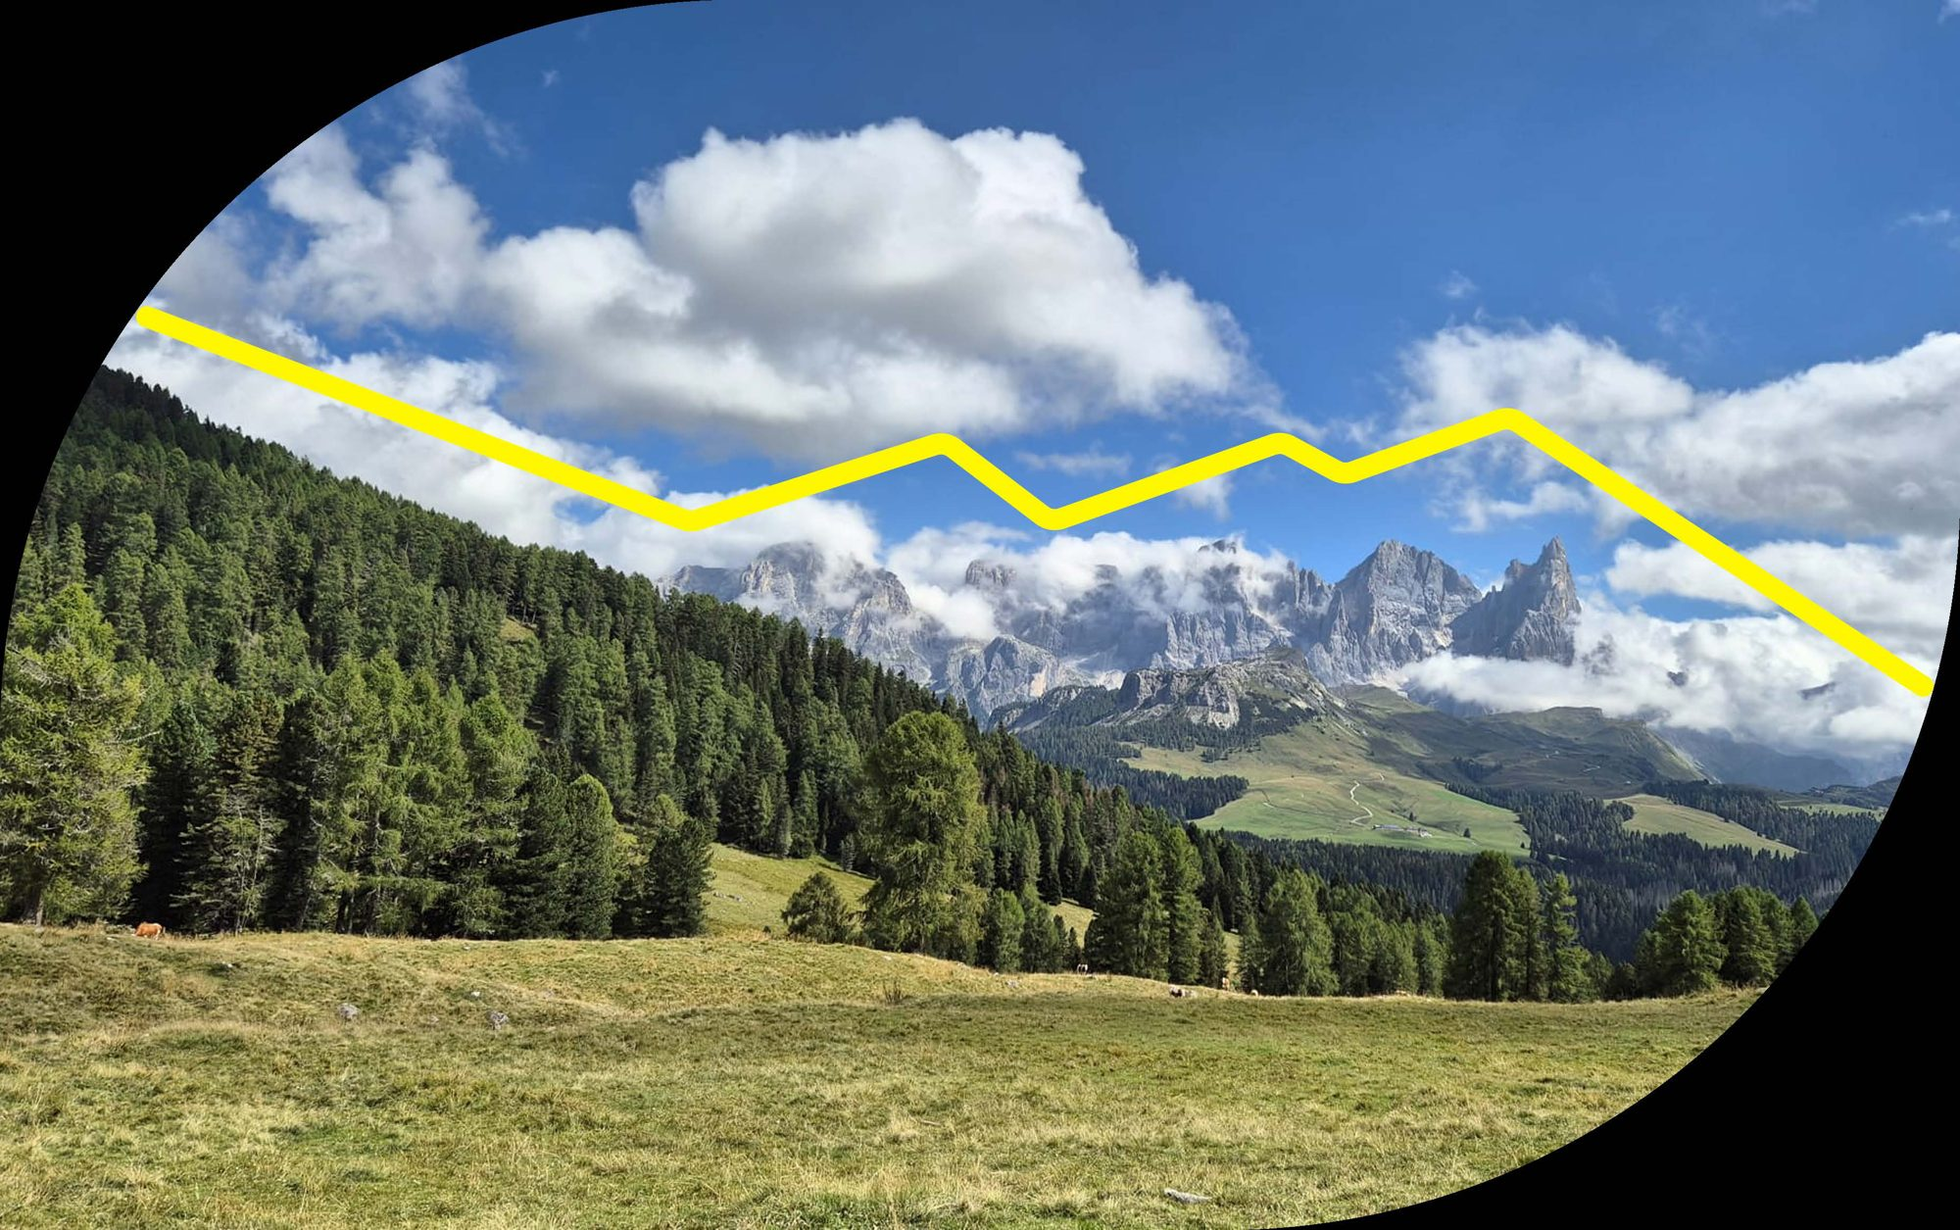
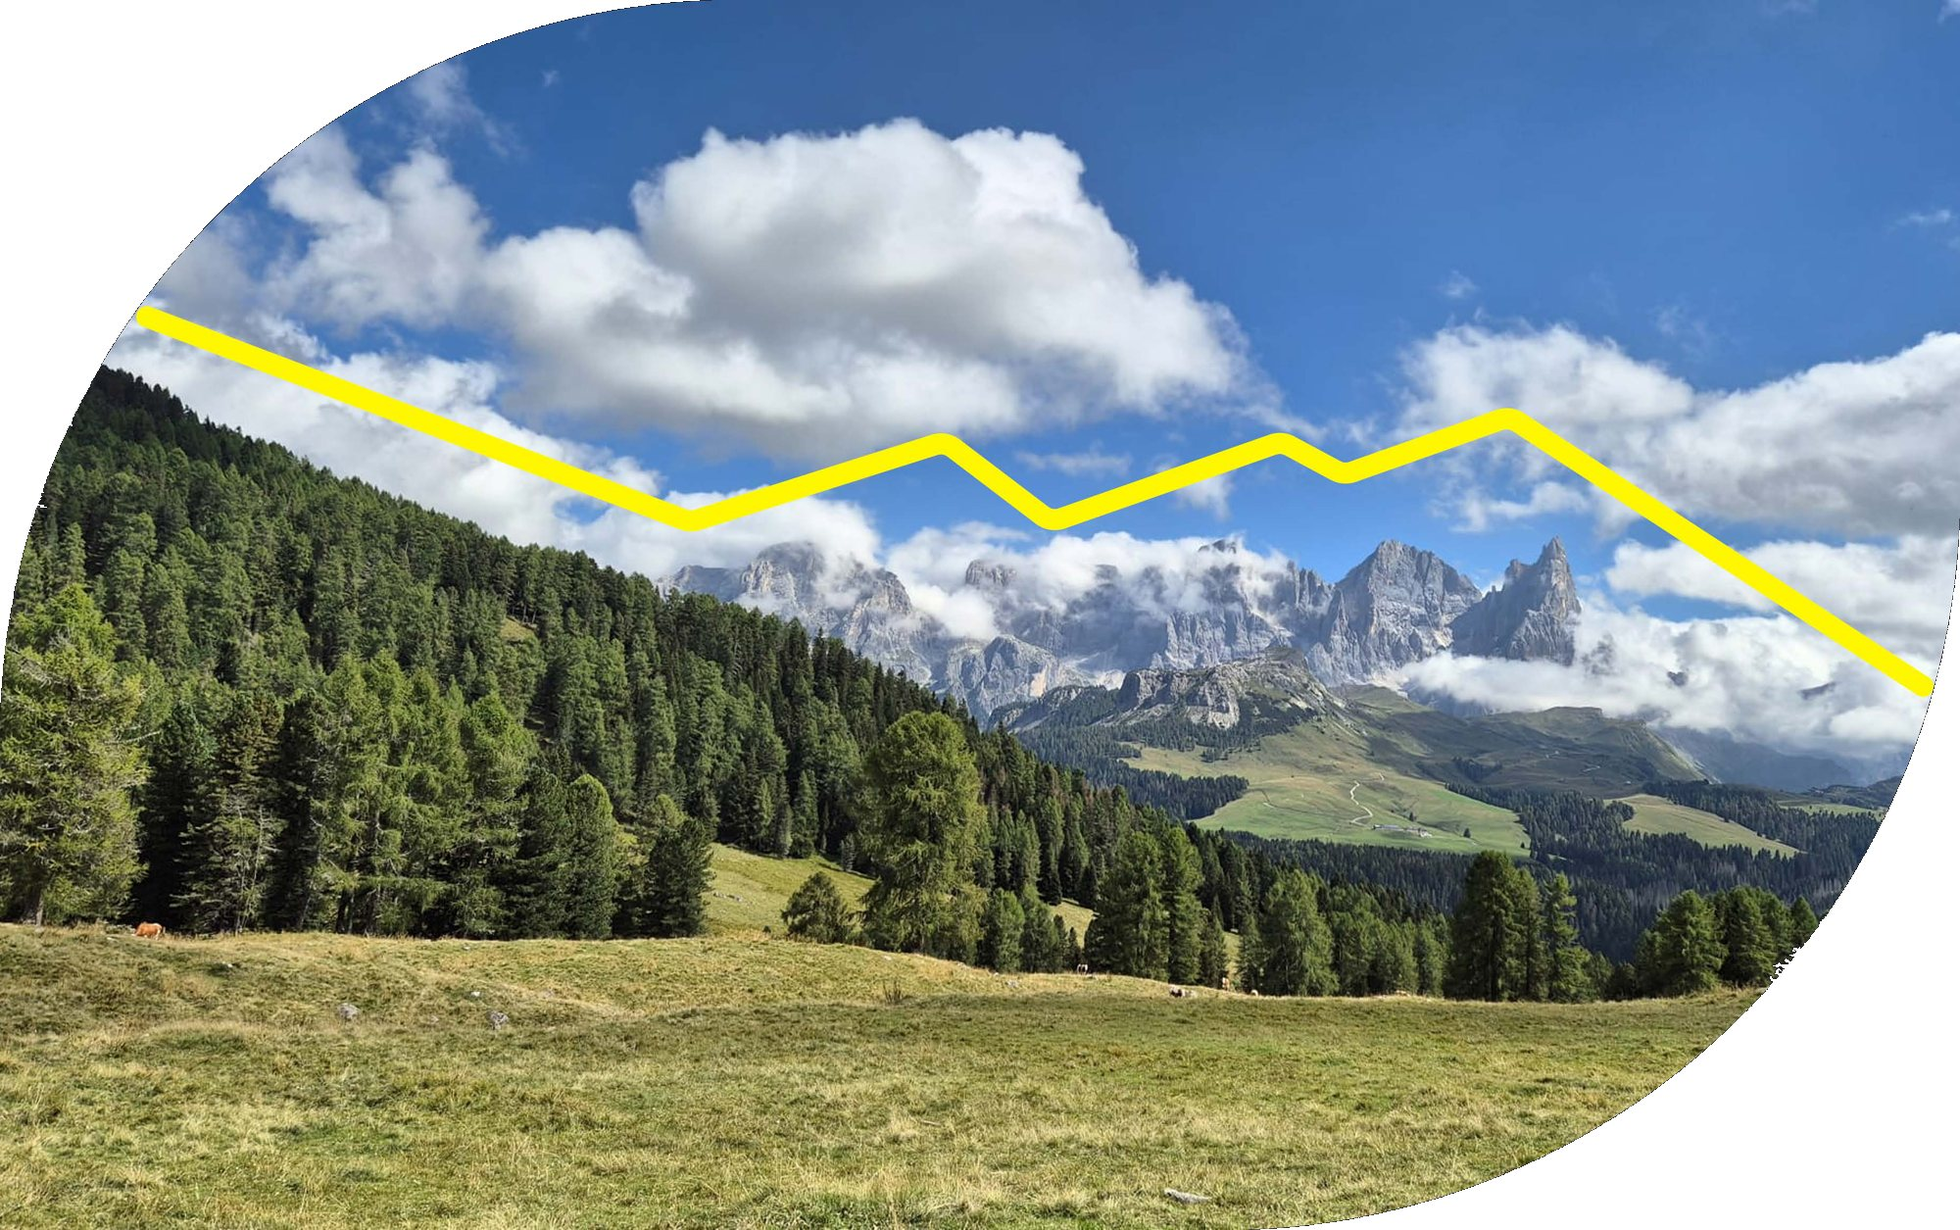
SS27: bílé rohy úvodky, bez technických stránek, vzorník BIVAK celý

Changed region(s): [[0.651, 0.4351, 1.0, 1.0], [0.0, 0.0, 0.341, 0.5283]]

diff --git a/ss27/trimm_katalog_SS27.html b/ss27/trimm_katalog_SS27.html
@@ -12,8 +12,8 @@ body{width:min(100%,104rem);margin:0 auto;background:var(--bg)}
 svg{width:1em;height:1em;fill:none;stroke:currentColor;stroke-width:1.8;stroke-linecap:round;stroke-linejoin:round}
 .ic{display:inline-flex;font-size:16px;color:var(--accent);margin-right:5px;vertical-align:middle}
 /* HERO */
-.hero{position:relative;background:#0b1b2b url("hero-ss27.jpg") center/cover no-repeat;min-height:420px;display:flex;align-items:flex-end;padding:60px;color:#fff;overflow:hidden}
-.hero::after{content:'';position:absolute;inset:0;background:linear-gradient(180deg,rgba(0,0,0,0) 30%,rgba(0,0,0,.65))}
+.hero{position:relative;background:#fff url("hero-ss27.jpg") center/cover no-repeat;min-height:420px;display:flex;align-items:flex-end;padding:60px;color:#fff;overflow:hidden}
+.hero::after{content:'';position:absolute;inset:0;background:linear-gradient(180deg,rgba(0,0,0,0) 35%,rgba(0,0,0,.6) 100%);mask:linear-gradient(90deg,#000 0,#000 55%,transparent 85%);-webkit-mask:linear-gradient(90deg,#000 0,#000 55%,transparent 85%)}
 .hero>div{position:relative;z-index:1}
 .hero .brand{font-size:14px;letter-spacing:.35em;font-weight:800;opacity:.9}
 .hero h1{font-size:clamp(34px,6vw,84px);font-weight:900;letter-spacing:.02em;line-height:1;margin-top:10px}
@@ -146,7 +146,7 @@ footer .sub{font-size:10px;letter-spacing:.25em;margin-top:16px}
  <span class="fcount" id="cnt"></span>
 </div>
 <main id="products">
-<section class="sec" id="sec-tents" data-sec="tents" style="--tc:#f39200"><div class="sec-head"><div class="sec-bar"></div><div><h2>TENTS COLLECTION</h2><div class="sec-cz">Stany</div></div><span class="sec-cnt">73 modelů</span></div><details class="info"><summary>Technické informace, materiály a technologie</summary><div class="info-pages"><img src="data/pdf_pages/p010.jpg" alt="Technické informace – strana 10" loading="lazy"><img src="data/pdf_pages/p011.jpg" alt="Technické informace – strana 11" loading="lazy"><img src="data/pdf_pages/p012.jpg" alt="Technické informace – strana 12" loading="lazy"></div></details><div class="serie" id="s-tents-extreme" data-serie="extreme" style="--sc:#e2001a"><div class="serie-head"><div class="serie-bar"></div><h3>EXTREME SERIE</h3><span class="serie-cnt">5</span></div><div class="grid"><article class="card" id="m-pack_dsl" data-sec="tents" data-serie="extreme" data-g="" data-s="pack dsl stan extreme orange/grey" style="--sc:#e2001a">
+<section class="sec" id="sec-tents" data-sec="tents" style="--tc:#f39200"><div class="sec-head"><div class="sec-bar"></div><div><h2>TENTS COLLECTION</h2><div class="sec-cz">Stany</div></div><span class="sec-cnt">73 modelů</span></div><div class="serie" id="s-tents-extreme" data-serie="extreme" style="--sc:#e2001a"><div class="serie-head"><div class="serie-bar"></div><h3>EXTREME SERIE</h3><span class="serie-cnt">5</span></div><div class="grid"><article class="card" id="m-pack_dsl" data-sec="tents" data-serie="extreme" data-g="" data-s="pack dsl stan extreme orange/grey" style="--sc:#e2001a">
 <div class="head"><div class="head-l"><h3>PACK DSL</h3></div><span class="dmoc"><span class="dmoc-l">DMOC</span>3 570 Kč</span></div>
 <div class="photo"><img class="p-front" src="foto/pack_dsl_orange_grey_front.jpg" alt="PACK DSL" loading="lazy"></div>
 <div class="meta"><span class="typ">stan</span></div>
@@ -730,7 +730,7 @@ footer .sub{font-size:10px;letter-spacing:.25em;margin-top:16px}
 
 <div class="body"><div class="mats"><div class="mat"><span class="mat-l">MATERIÁL</span><span class="mat-v">100 % PES + 100 % rubber</span></div><div class="mat"><span class="mat-l">ROZMĚR</span><span class="mat-v">10 m x 3 mm</span></div><p class="desc">TENTS POLES GUM - 10m z řady repair set od Trimm, je určena pro opravu či výměnu gumičky ve stanových prutech. Set obsahuje elastickou gumičku a drát na provlékání gumičky.</p></div><div class="feats"></div></div>
 <div class="colors"><div class="c-item" title="white dots"><div class="c-n">1</div><img class="c-art c-photo" src="foto/tents_poles_gum_white_dots_front.jpg" alt="TENTS POLES GUM white dots" loading="lazy"><div class="c-name">white dots</div></div></div>
-</article></div></div></section><section class="sec" id="sec-sleeping" data-sec="sleeping" style="--tc:#1e73be"><div class="sec-head"><div class="sec-bar"></div><div><h2>SLEEPING BAGS COLLECTION</h2><div class="sec-cz">Spací pytle</div></div><span class="sec-cnt">29 modelů</span></div><details class="info"><summary>Technické informace, materiály a technologie</summary><div class="info-pages"><img src="data/pdf_pages/p044.jpg" alt="Technické informace – strana 44" loading="lazy"><img src="data/pdf_pages/p045.jpg" alt="Technické informace – strana 45" loading="lazy"><img src="data/pdf_pages/p046.jpg" alt="Technické informace – strana 46" loading="lazy"></div></details><div class="serie" id="s-sleeping-extreme-down" data-serie="extreme-down" style="--sc:#e2001a"><div class="serie-head"><div class="serie-bar"></div><h3>EXTREME DOWN SERIE</h3><span class="serie-cnt">5</span></div><div class="grid"><article class="card" id="m-nord_750" data-sec="sleeping" data-serie="extreme-down" data-g="" data-s="nord 750 s.p. extreme down dark lagoon" style="--sc:#e2001a">
+</article></div></div></section><section class="sec" id="sec-sleeping" data-sec="sleeping" style="--tc:#1e73be"><div class="sec-head"><div class="sec-bar"></div><div><h2>SLEEPING BAGS COLLECTION</h2><div class="sec-cz">Spací pytle</div></div><span class="sec-cnt">29 modelů</span></div><div class="serie" id="s-sleeping-extreme-down" data-serie="extreme-down" style="--sc:#e2001a"><div class="serie-head"><div class="serie-bar"></div><h3>EXTREME DOWN SERIE</h3><span class="serie-cnt">5</span></div><div class="grid"><article class="card" id="m-nord_750" data-sec="sleeping" data-serie="extreme-down" data-g="" data-s="nord 750 s.p. extreme down dark lagoon" style="--sc:#e2001a">
 <div class="head"><div class="head-l"><h3>NORD 750</h3></div><span class="dmoc"><span class="dmoc-l">DMOC</span>8 980 Kč</span></div>
 <div class="photo"><img class="p-front" src="foto/nord_750_dark_lagoon_front.jpg" alt="NORD 750" loading="lazy"></div>
 <div class="meta"><span class="typ">spací pytel</span></div>
@@ -962,7 +962,7 @@ footer .sub{font-size:10px;letter-spacing:.25em;margin-top:16px}
 
 <div class="body"><div class="mats"><div class="mat"><span class="mat-l">MATERIÁL</span><span class="mat-v">100 % PES</span></div><div class="mat"><span class="mat-l">ROZMĚRY</span><span class="mat-v">24 x 45 cm</span></div><div class="mat"><span class="mat-l">ROZMĚR</span><span class="mat-v">24 x 45 cm</span></div><p class="desc">Kompresní obal značky Trimm COMPRESS BAG M umožňuje zmenšení rozměrů sbaleného spacího pytle. Objem spacáku je možné zmenšit až na 40 %, a to stáhnutím pomocí 4 kompresních pásků.</p></div><div class="feats"></div></div>
 <div class="colors"><div class="c-item" title="dark grey/red"><div class="c-n">1</div><img class="c-art c-photo" src="foto/compress_bag_m_dark_grey_red_front.jpg" alt="COMPRESS BAG M dark grey/red" loading="lazy"><div class="c-name">dark grey/red</div></div></div>
-</article></div></div></section><section class="sec" id="sec-mattress" data-sec="mattress" style="--tc:#3aa55d"><div class="sec-head"><div class="sec-bar"></div><div><h2>MATTRESS COLLECTION</h2><div class="sec-cz">Karimatky a matrace</div></div><span class="sec-cnt">17 modelů</span></div><details class="info"><summary>Technické informace, materiály a technologie</summary><div class="info-pages"><img src="data/pdf_pages/p060.jpg" alt="Technické informace – strana 60" loading="lazy"><img src="data/pdf_pages/p061.jpg" alt="Technické informace – strana 61" loading="lazy"></div></details><div class="serie" id="s-mattress-lite" data-serie="lite" style="--sc:#00a99d"><div class="serie-head"><div class="serie-bar"></div><h3>LITE SERIE</h3><span class="serie-cnt">6</span></div><div class="grid"><article class="card" id="m-wake_5_5" data-sec="mattress" data-serie="lite" data-g="" data-s="wake 5.5 karimatka lite blue green" style="--sc:#00a99d">
+</article></div></div></section><section class="sec" id="sec-mattress" data-sec="mattress" style="--tc:#3aa55d"><div class="sec-head"><div class="sec-bar"></div><div><h2>MATTRESS COLLECTION</h2><div class="sec-cz">Karimatky a matrace</div></div><span class="sec-cnt">17 modelů</span></div><div class="serie" id="s-mattress-lite" data-serie="lite" style="--sc:#00a99d"><div class="serie-head"><div class="serie-bar"></div><h3>LITE SERIE</h3><span class="serie-cnt">6</span></div><div class="grid"><article class="card" id="m-wake_5_5" data-sec="mattress" data-serie="lite" data-g="" data-s="wake 5.5 karimatka lite blue green" style="--sc:#00a99d">
 <div class="head"><div class="head-l"><h3>WAKE 5.5</h3></div><span class="dmoc"><span class="dmoc-l">DMOC</span>1 100 Kč</span></div>
 <div class="photo"><img class="p-front" src="foto/wake_5_5_blue_front.jpg" alt="WAKE 5.5" loading="lazy"></div>
 <div class="meta"><span class="typ">karimatka</span></div>
@@ -1098,7 +1098,7 @@ footer .sub{font-size:10px;letter-spacing:.25em;margin-top:16px}
 
 <div class="body"><div class="mats"><div class="mat"><span class="mat-l">MATERIÁL</span><span class="mat-v">100 % PES + 100 % PES Suede , PVC coating</span></div><div class="mat"><span class="mat-l">VÝPLŇ</span><span class="mat-v">Pěna</span></div><div class="mat"><span class="mat-l">VENTIL</span><span class="mat-v">Plastový</span></div><div class="mat"><span class="mat-l">KONSTRUKCE</span><span class="mat-v">Plná pěna</span></div><div class="mat"><span class="mat-l">ROZMĚR</span><span class="mat-v">40 x 30 x 5 cm</span></div><p class="desc">Samonafukovací sedák Trimm BUDDY 5.0 poskytuje výbornou izolaci a pohodlné sezení při různých aktivitách v přírodě, sportovních utkáních, koncertech, atd.</p></div><div class="feats"><div class="feat"><div class="feat-l">VLASTNOSTI</div><ul><li>Bezpečnostní pojistný ventil</li><li>Kompaktní kompresní vak součástí</li><li>Kompresní pásky</li><li>Opravná sada</li><li>Protiskluzové dno</li></ul></div></div></div>
 <div class="colors"><div class="c-item" title="khaki"><div class="c-n">1</div><img class="c-art c-photo" src="foto/buddy_5_0_khaki_front.jpg" alt="BUDDY 5.0 khaki" loading="lazy"><div class="c-name">khaki</div></div><div class="c-item" title="grey"><div class="c-n">2</div><img class="c-art c-photo" src="foto/buddy_5_0_grey_front.jpg" alt="BUDDY 5.0 grey" loading="lazy"><div class="c-name">grey</div></div></div>
-</article></div></div></section><section class="sec" id="sec-backpacks" data-sec="backpacks" style="--tc:#8e44ad"><div class="sec-head"><div class="sec-bar"></div><div><h2>BACKPACKS &amp; WATERPROOF COLLECTION</h2><div class="sec-cz">Batohy, vodotěsné vaky a rezervoáry</div></div><span class="sec-cnt">30 modelů</span></div><details class="info"><summary>Technické informace, materiály a technologie</summary><div class="info-pages"><img src="data/pdf_pages/p071.jpg" alt="Technické informace – strana 71" loading="lazy"></div></details><div class="serie" id="s-backpacks-adventure" data-serie="adventure" style="--sc:#f39200"><div class="serie-head"><div class="serie-bar"></div><h3>ADVENTURE SERIE</h3><span class="serie-cnt">5</span></div><div class="grid"><article class="card" id="m-opal_40" data-sec="backpacks" data-serie="adventure" data-g="" data-s="opal 40 batoh adventure black/orange blue/orange" style="--sc:#f39200">
+</article></div></div></section><section class="sec" id="sec-backpacks" data-sec="backpacks" style="--tc:#8e44ad"><div class="sec-head"><div class="sec-bar"></div><div><h2>BACKPACKS &amp; WATERPROOF COLLECTION</h2><div class="sec-cz">Batohy, vodotěsné vaky a rezervoáry</div></div><span class="sec-cnt">30 modelů</span></div><div class="serie" id="s-backpacks-adventure" data-serie="adventure" style="--sc:#f39200"><div class="serie-head"><div class="serie-bar"></div><h3>ADVENTURE SERIE</h3><span class="serie-cnt">5</span></div><div class="grid"><article class="card" id="m-opal_40" data-sec="backpacks" data-serie="adventure" data-g="" data-s="opal 40 batoh adventure black/orange blue/orange" style="--sc:#f39200">
 <div class="head"><div class="head-l"><h3>OPAL 40</h3></div><span class="dmoc"><span class="dmoc-l">DMOC</span>3 290 Kč</span></div>
 <div class="photo"><img class="p-front" src="foto/opal_40_black_orange_front.jpg" alt="OPAL 40" loading="lazy"></div>
 <div class="meta"><span class="typ">batoh</span></div>
@@ -1338,7 +1338,7 @@ footer .sub{font-size:10px;letter-spacing:.25em;margin-top:16px}
 
 <div class="body"><div class="mats"><div class="mat"><span class="mat-l">MATERIÁL</span><span class="mat-v">TPU</span></div><div class="mat"><span class="mat-l">ROZMĚR</span><span class="mat-v">6 x 15 cm</span></div><p class="desc">Vysoce kvalitní měkká láhev na nápoje Trimm GEL-FLASK-H 350 s objemem 0,35 litru. Nejuniverzálnější způsob pro udržení pravidelné hydratace na dlouhých i krátkých tratích při tréninku i při závodě. Díky snadnému pití z těchto typů lahví ušetříte energii na sání tekutiny. Pokud láhev stisknete, její obsah Vás automaticky zavlaží. Při nošení nedochází k pravidelnému šplouchání tekutiny.</p></div><div class="feats"></div></div>
 <div class="colors"><div class="c-item" title="blue"><div class="c-n">1</div><img class="c-art c-photo" src="foto/gel_flask_h_350_blue_front.jpg" alt="GEL FLASK H 350 blue" loading="lazy"><div class="c-name">blue</div></div></div>
-</article></div></div></section><section class="sec" id="sec-sportswear" data-sec="sportswear" style="--tc:#b5c400"><div class="sec-head"><div class="sec-bar"></div><div><h2>SPORTSWEAR COLLECTION</h2><div class="sec-cz">Oblečení</div></div><span class="sec-cnt">114 modelů</span></div><details class="info"><summary>Technické informace, materiály a technologie</summary><div class="info-pages"><img src="data/pdf_pages/p088.jpg" alt="Technické informace – strana 88" loading="lazy"><img src="data/pdf_pages/p089.jpg" alt="Technické informace – strana 89" loading="lazy"><img src="data/pdf_pages/p090.jpg" alt="Technické informace – strana 90" loading="lazy"><img src="data/pdf_pages/p091.jpg" alt="Technické informace – strana 91" loading="lazy"><img src="data/pdf_pages/p092.jpg" alt="Technické informace – strana 92" loading="lazy"><img src="data/pdf_pages/p093.jpg" alt="Technické informace – strana 93" loading="lazy"></div></details><div class="serie" id="s-sportswear-outdoor" data-serie="outdoor" style="--sc:#7ab929"><div class="serie-head"><div class="serie-bar"></div><h3>OUTDOOR SERIE</h3><span class="serie-cnt">21</span></div><div class="grid"><article class="card" id="m-intense" data-sec="sportswear" data-serie="outdoor" data-g="men" data-s="intense bunda outdoor lemon/lagoon jeans blue/orange red/blue dark lagoon/lemon" style="--sc:#7ab929">
+</article></div></div></section><section class="sec" id="sec-sportswear" data-sec="sportswear" style="--tc:#b5c400"><div class="sec-head"><div class="sec-bar"></div><div><h2>SPORTSWEAR COLLECTION</h2><div class="sec-cz">Oblečení</div></div><span class="sec-cnt">114 modelů</span></div><div class="serie" id="s-sportswear-outdoor" data-serie="outdoor" style="--sc:#7ab929"><div class="serie-head"><div class="serie-bar"></div><h3>OUTDOOR SERIE</h3><span class="serie-cnt">21</span></div><div class="grid"><article class="card" id="m-intense" data-sec="sportswear" data-serie="outdoor" data-g="men" data-s="intense bunda outdoor lemon/lagoon jeans blue/orange red/blue dark lagoon/lemon" style="--sc:#7ab929">
 <div class="head"><div class="head-l"><h3>INTENSE</h3></div><span class="dmoc"><span class="dmoc-l">DMOC</span>4 790 Kč</span></div>
 <div class="photo"><img class="p-back" src="foto/intense_lemon_lagoon_back.jpg" alt="INTENSE – zadní strana" loading="lazy"><img class="p-front" src="foto/intense_lemon_lagoon_front.jpg" alt="INTENSE" loading="lazy"></div>
 <div class="meta"><span class="g" title="Pánské"><span class="ic" title="Pánské"><svg viewBox="0 0 24 24"><circle cx="10" cy="14" r="6"/><path d="M14.5 9.5L21 3M15 3h6v6"/></svg></span><span>Pánské</span></span><span class="typ">bunda</span><span class="size">S – 3XL</span></div>

diff --git a/ss27/nastroje/build_html.py b/ss27/nastroje/build_html.py
@@ -132,7 +132,7 @@ for sec,meta in SECTIONS.items():
     toc+='</div></div>'
     chips+=f'<button class="chip" data-f="{sec}" style="--tc:{meta["color"]}">{E(meta["cz"].upper())}</button>'
     pages=''.join(f'<img src="data/pdf_pages/p{p:03d}.jpg" alt="Technické informace – strana {p}" loading="lazy">' for p in meta['pages'] if os.path.exists(os.path.join(DATA,'pdf_pages',f'p{p:03d}.jpg')))
-    info=f'<details class="info"><summary>Technické informace, materiály a technologie</summary><div class="info-pages">{pages}</div></details>' if pages else ''
+    info=''
     body+=f'<section class="sec" id="sec-{sec}" data-sec="{sec}" style="--tc:{meta["color"]}"><div class="sec-head"><div class="sec-bar"></div><div><h2>{E(meta["title"])}</h2><div class="sec-cz">{E(meta["cz"])}</div></div><span class="sec-cnt">{len(items)} modelů</span></div>{info}'
     for k,v in gs.items():
         col=serie_color(sec,k)
@@ -154,8 +154,8 @@ body{width:min(100%,104rem);margin:0 auto;background:var(--bg)}
 svg{width:1em;height:1em;fill:none;stroke:currentColor;stroke-width:1.8;stroke-linecap:round;stroke-linejoin:round}
 .ic{display:inline-flex;font-size:16px;color:var(--accent);margin-right:5px;vertical-align:middle}
 /* HERO */
-.hero{position:relative;background:#0b1b2b url("hero-ss27.jpg") center/cover no-repeat;min-height:420px;display:flex;align-items:flex-end;padding:60px;color:#fff;overflow:hidden}
-.hero::after{content:'';position:absolute;inset:0;background:linear-gradient(180deg,rgba(0,0,0,0) 30%,rgba(0,0,0,.65))}
+.hero{position:relative;background:#fff url("hero-ss27.jpg") center/cover no-repeat;min-height:420px;display:flex;align-items:flex-end;padding:60px;color:#fff;overflow:hidden}
+.hero::after{content:'';position:absolute;inset:0;background:linear-gradient(180deg,rgba(0,0,0,0) 35%,rgba(0,0,0,.6) 100%);mask:linear-gradient(90deg,#000 0,#000 55%,transparent 85%);-webkit-mask:linear-gradient(90deg,#000 0,#000 55%,transparent 85%)}
 .hero>div{position:relative;z-index:1}
 .hero .brand{font-size:14px;letter-spacing:.35em;font-weight:800;opacity:.9}
 .hero h1{font-size:clamp(34px,6vw,84px);font-weight:900;letter-spacing:.02em;line-height:1;margin-top:10px}

diff --git a/ss27/nastroje/extract_pdf.py b/ss27/nastroje/extract_pdf.py
@@ -180,7 +180,8 @@ def parse_column(sec,name,x0,x1,pno):
             else:       # vzorník dole, název pod ním; hranice = polovina vzdálenosti k sousednímu číslu
                 lab=[n for n in names if -8<=(n['x']-x)<26 and y<n['y']<y+100]
                 lab.sort(key=lambda n:n['y'])
-                box=fitz.Rect(x-4,y+8,x+41,(lab[0]['y']-2) if lab else y+70)
+                right=[u['x'] for u in nums if u['x']>x+5 and abs(u['y']-y)<8]
+                box=fitz.Rect(x-4,y+8,(x+41) if right else (x+64),(lab[0]['y']-2) if lab else y+70)
             label=fix(' '.join(n['text'] for n in sorted(lab,key=lambda n:(round(n['y']),n['x']))[:2])).strip()
             if box.width<10 or box.height<8: continue
             pix=d[pno].get_pixmap(dpi=300,clip=box,colorspace=fitz.csRGB)
